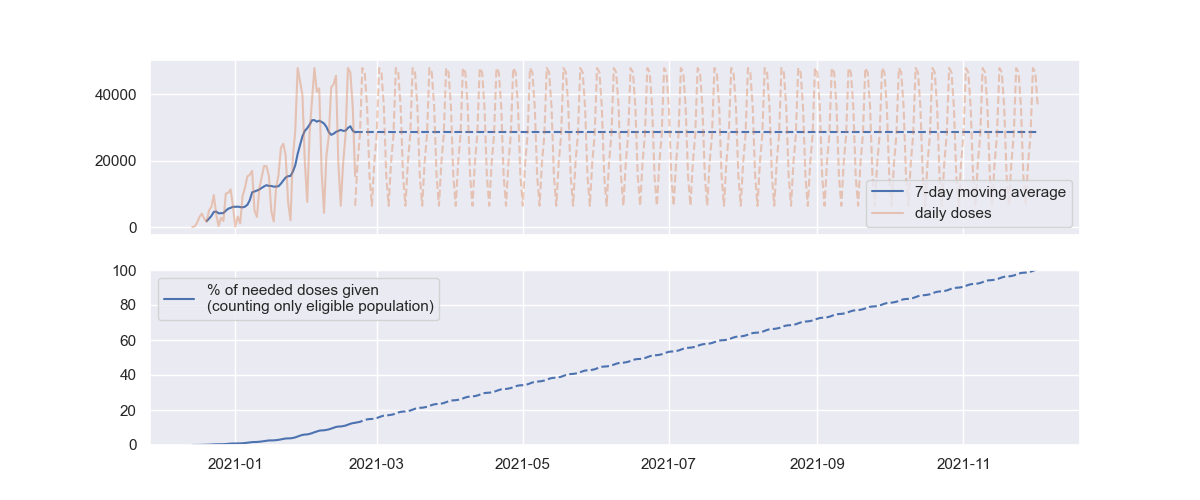
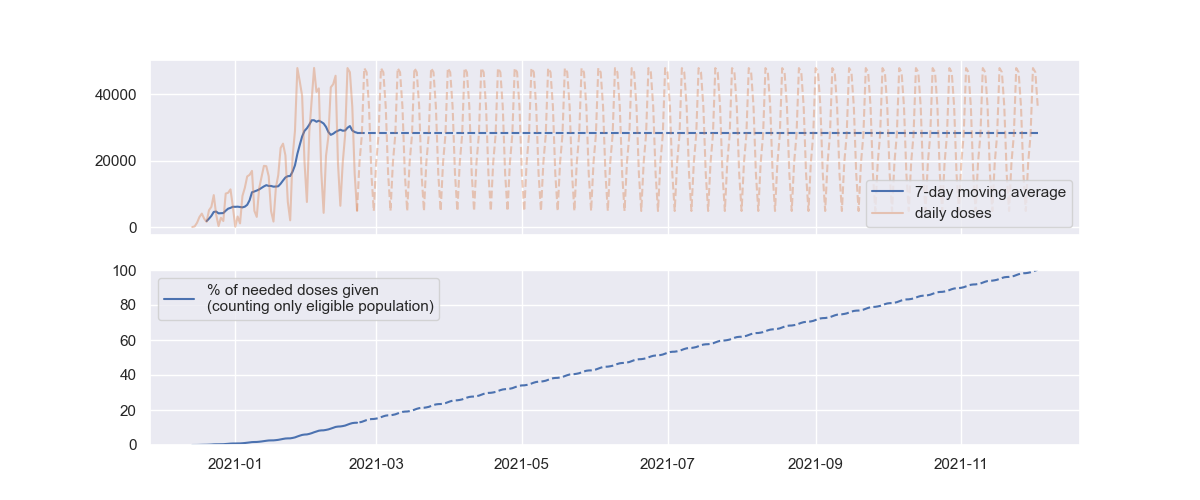
2021-02-22

diff --git a/trax.py b/trax.py
@@ -62,14 +62,14 @@ def plot(date, vax, weeks_to_done_age, daily_avg):
         date, vax, math.ceil(weeks_to_done_age * 7)
     )
     axs[0].plot(
-        extrap_dates,
-        [daily_avg] * len(extrap_dates),
+        [date.max()] + extrap_dates,
+        [daily_avg] * (len(extrap_dates) + 1),
         "--",
         color=line_avg.get_color(),
     )
     axs[0].plot(
-        extrap_dates,
-        extrap_vax,
+        [date.max()] + extrap_dates,
+        [vax.iloc[-1]] + extrap_vax.tolist(),
         "--",
         color=line_daily.get_color(),
         alpha=0.4,
@@ -105,7 +105,7 @@ def plot_base(axs, date, vax):
 
 def extrapolate(date, vax, days_to_extrap):
     extrap_dates = [
-        date.max() + timedelta(days=n) for n in range(days_to_extrap)
+        date.max() + timedelta(days=n) for n in range(1, days_to_extrap)
     ]
     extrap_vax = pd.Series(
         [vax.iloc[-7:].tolist()[i % 7] for i in range(len(extrap_dates))]

diff --git a/README.md b/README.md
@@ -4,15 +4,15 @@ Naive tracking of Wisconsin's vaccination progress.
 
 I am not an expert, there's probably many reasons why the statistics I report here are incorrect.
 
-Raw data was obtained from https://www.dhs.wisconsin.gov/covid-19/vaccine-data.htm (see [download.sh](./download.sh) for details).
+Raw data was obtained from https://www.dhs.wisconsin.gov/covid-19/vaccine-data.htm. See below for instructions.
 
 # Current estimates
 
 ```
 $ python trax.py
-28538 average doses per day over past 7 days (-456 compared to 2 weeks ago)
-52.4 weeks (2022-02-21) for EVERY PERSON to get 2 doses
-40.7 weeks (2021-12-02) for all eligible people (over 16 years old) to get 2 doses
+28433 average doses per day over past 7 days (-914 compared to 2 weeks ago)
+52.5 weeks (2022-02-23) for EVERY PERSON to get 2 doses
+40.8 weeks (2021-12-03) for all eligible people (over 16 years old) to get 2 doses
 ```
 
 # Charts
@@ -26,6 +26,16 @@ Current vaccination progress.
 Current vaccination progress extrapolated out to 100% completion (of people who are eligible for the vaccine) using the a rolling 7 day average. Dashed lines are the extrapolations.
 
 ![extrapolated vaccination progress](./imgs/extrapolated.png)
+
+# Update data
+
+1. Go to https://www.dhs.wisconsin.gov/covid-19/vaccine-data.htm
+2. Under "Vaccine Distribution Summary" section, click "Download"
+3. Hit "cross tab"
+4. Hover over each option until you see the one called "Vax Summary - adm spk", check it
+5. Select CSV for the format
+6. Click Download
+7. Click Download again, or copy the download link into a `curl` command. Either way, save it to the `vax.csv` file
 
 # Why?
 
